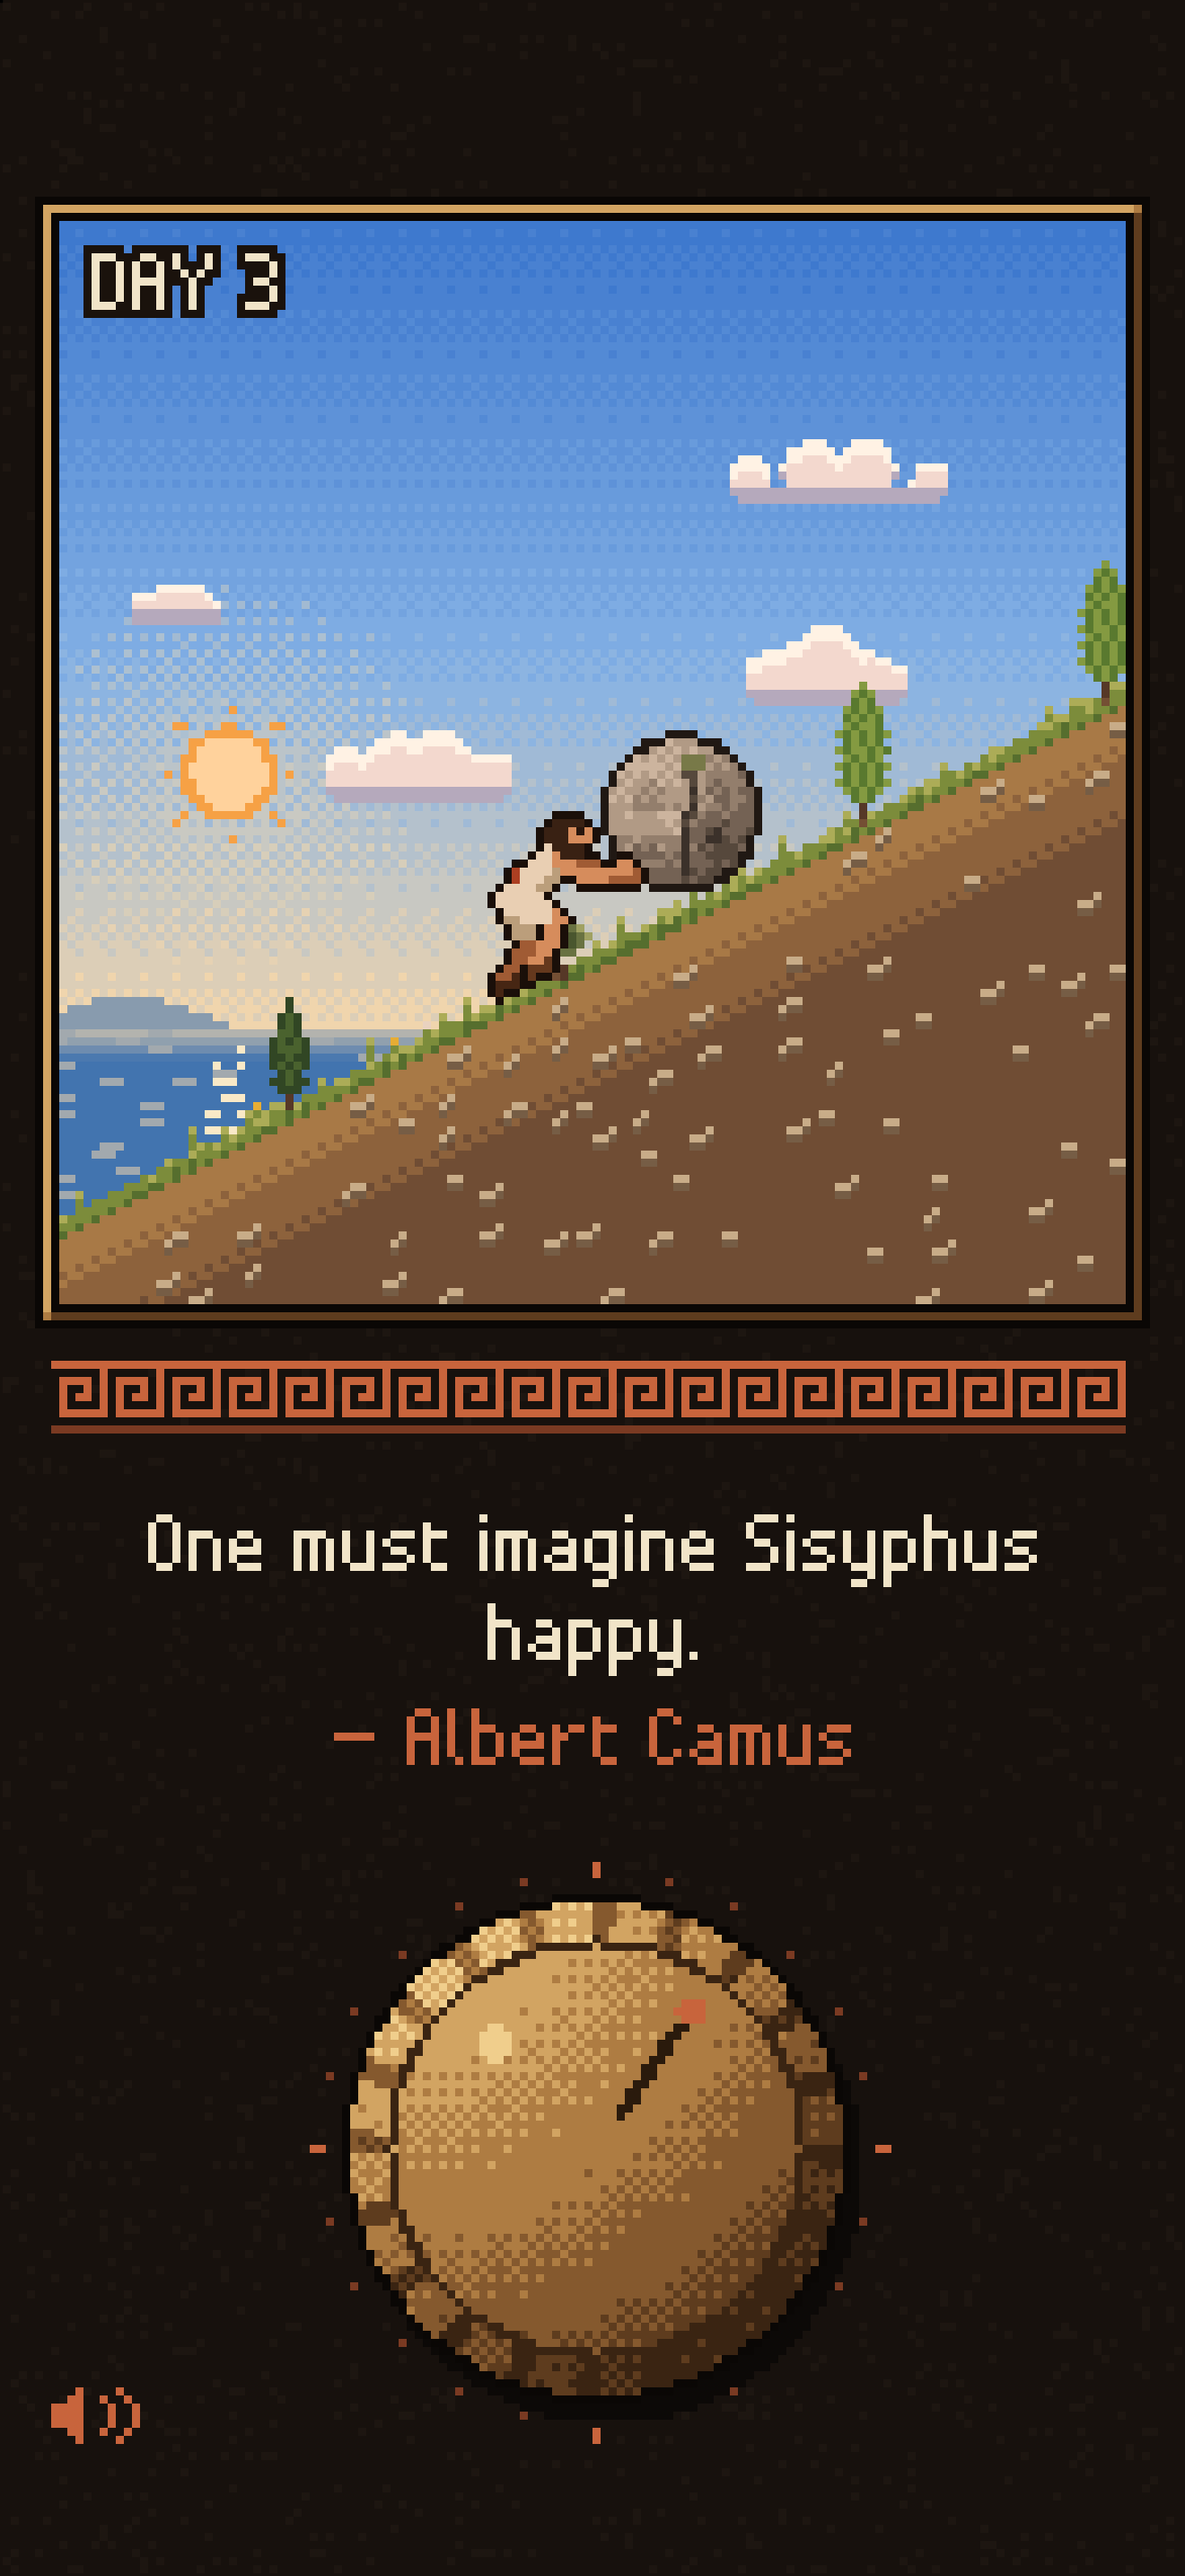
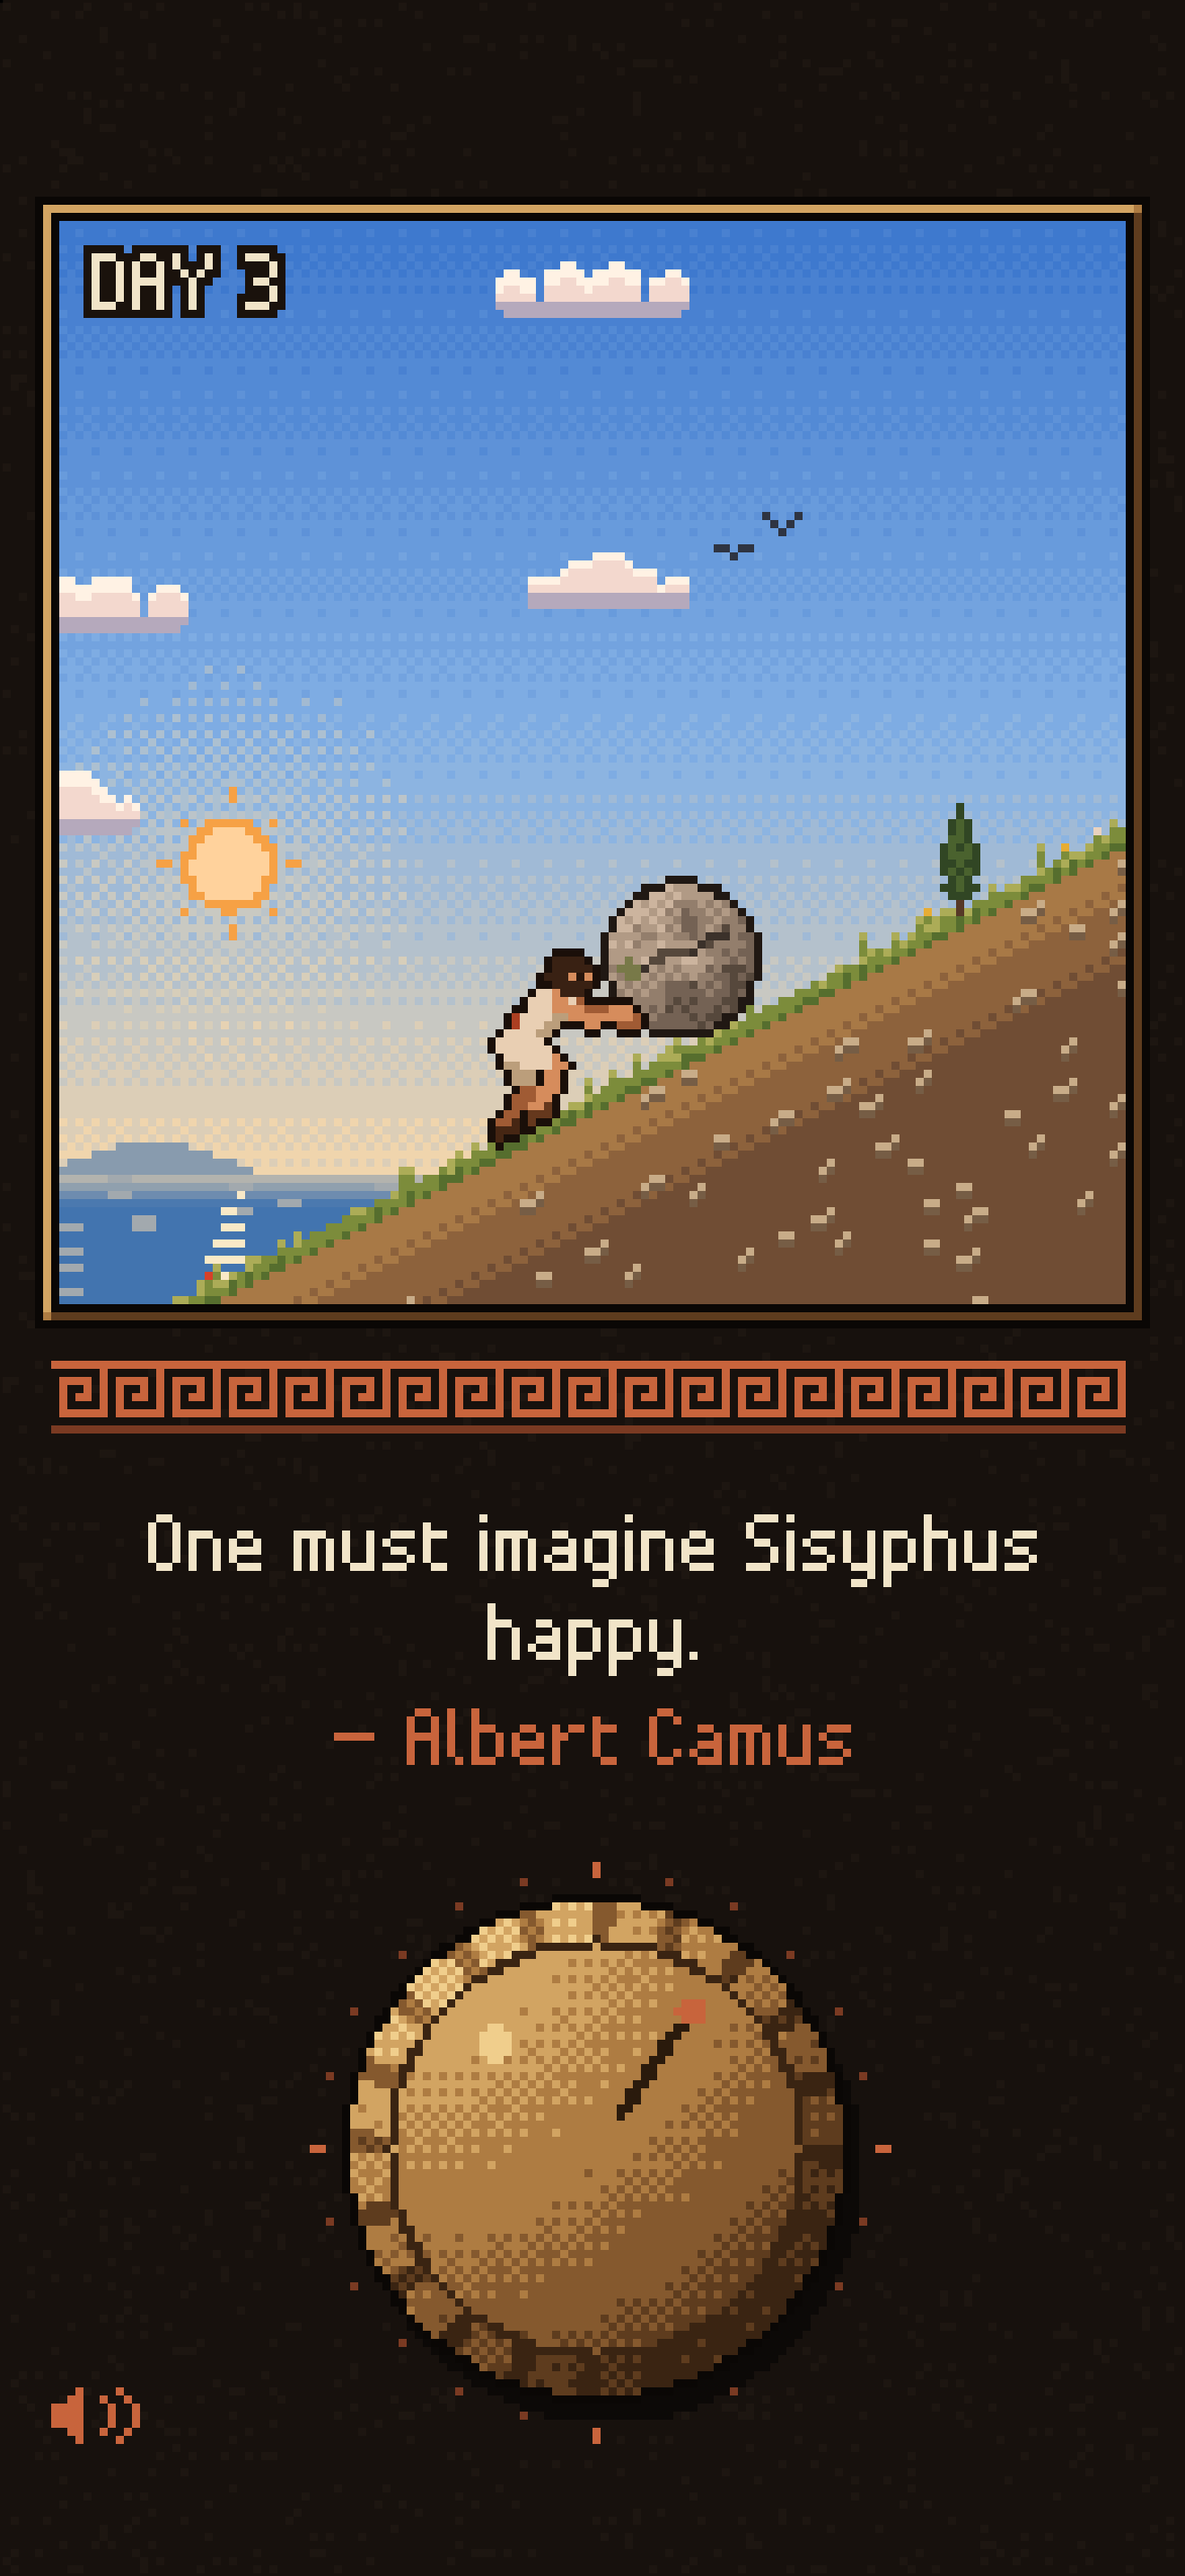
Update quote count and refresh screenshots
Mention almost 150 quotes, including Camus, and update the morning, sunset and night screenshots.

diff --git a/index.html b/index.html
@@ -44,7 +44,7 @@
 </div>
 <ul>
   <li>Days pass only when you push. Each day has its own weather.</li>
-  <li>Nearly a hundred wise words, from Heraclitus to the Rock itself.</li>
+  <li>Almost 150 wise words, from Camus and Heraclitus to the Rock itself.</li>
   <li>Clicks and haptics with every turn of the knob.</li>
   <li>No ads, no accounts, no data collected.</li>
 </ul>
